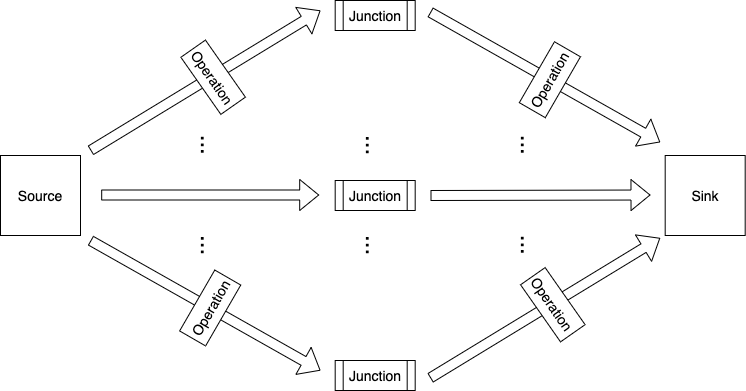
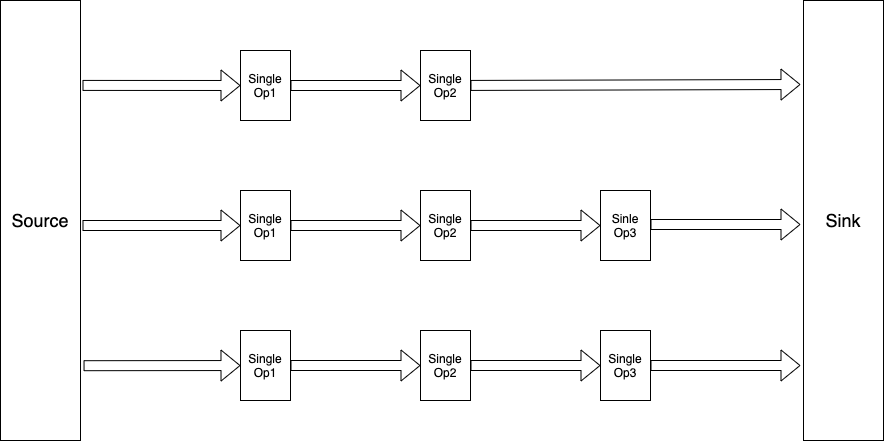
Adjust README.md and add new diagram.png

diff --git a/README.md b/README.md
@@ -15,11 +15,6 @@ The structure through which data flows. The pipeline applies the specified user 
 independently or perform an aggregation of all the data points to create a common summary. The data can either pass 
 through the pipeline and end straight in a sink, or it can go through a junction.
 
-## Junction
-The junction is used as an intermediary step in data processing. It can either serve as a breakpoint for monitoring how
-data is being transformed or it can hold a connection to another pipeline to which data will be passed. Once data passes
-through all the specified pipelines and junctions, it ends in a sink.
-
 ## Sink
 The sink is a data repository that aggregates all the data that pipeline operations were performed on and creates a new
 CSV file that holds the results. The results may not be structured the same way as the input CSV is because of the 
@@ -27,8 +22,8 @@ different pipeline functions that can be created. For example, a CSV column may 
 another may end with independently modified values.
 
 ## Structure
-A concept that holds and coordinates calls to flow data through pipes, execute follow-up pipes in junctions, and make 
-the sink dump its data once everything is done.
+A concept that holds and coordinates calls to flow data through pipes, and make the sink dump its data once
+everything is done.
 
 ### Code examples
 See `main.go` for an example that does not use junctions. I am still working on this and junctions are currently not 
@@ -46,6 +41,6 @@ go test ./...
 ## TODO
 
 1. Make pipes run in parallel
-1. Make structure take into account presence of junctions
-1. Make structure accept param to tell junctions whether to inform user of processing status
-1. Other TODOs left in the code 
+1. Add pipe ability to report progress
+1. Make structure allow the user specify whether to inform progress or not
+1. Other TODOs left in the code
